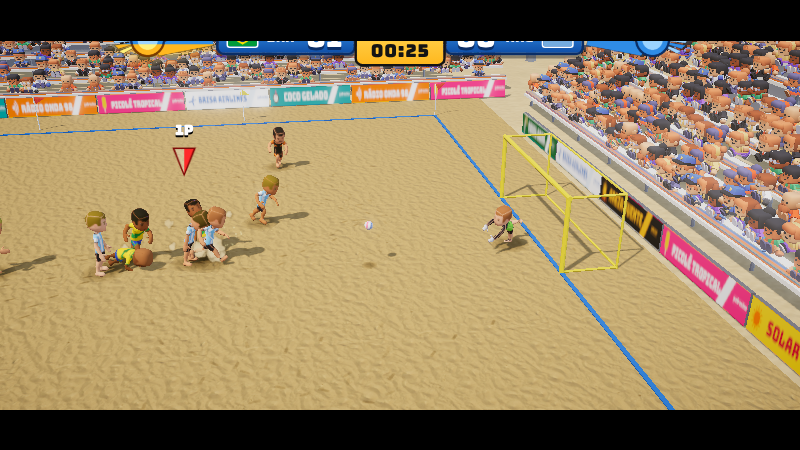
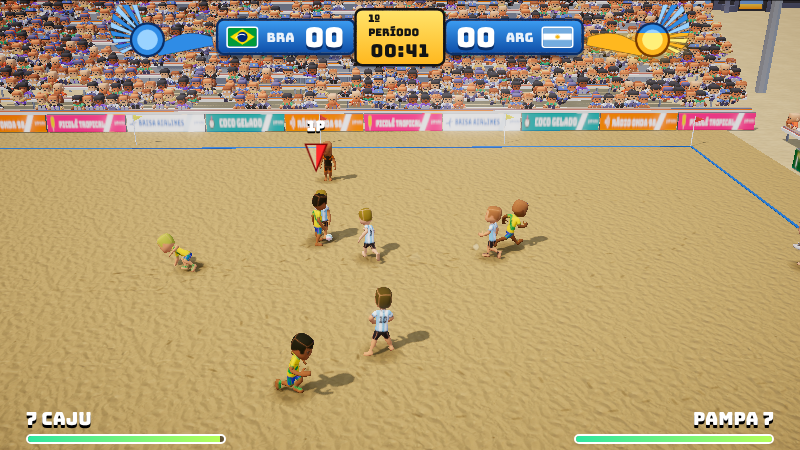
Toque: todo botão age em todo lance (ATAQUE/APOIO/DEFESA), área de toque tolerante, dicas
- APOIO (companheiro com a bola): PEDIR e PEDIR ALTO fazem a CPU passar para você
- DEFESA: MARCAR (segurar) corre sozinho até a bola/adversário; CARRINHO grande; TROCAR
- Botões que não agem no lance ficam apagados e mostram uma dica ao tocar; anel da barra do FOGO
- Toque entre dois botões aciona o mais próximo; cada dedo preso ao botão que tocou
- Teclado: J/L sem bola com companheiro na bola também pedem o passe
- Nova suíte de QA 'toques': cada botão em cada situação, toque rápido/segurado, multitoque

Claude-Session: https://claude.ai/code/session_01SZRMGLNJbngvwk127EqV8r

diff --git a/areia-quente/src/ui/Touch.ts b/areia-quente/src/ui/Touch.ts
@@ -7,6 +7,7 @@ import type { Flow } from './Flow';
  * Tudo vira "teclas virtuais" do dispositivo de teclado, então a lógica da partida não muda.
  */
 type Btn = { el: HTMLElement; action: string; ids: Set<number> };
+type Mode = 'atk' | 'sup' | 'def';
 
 const ACTIONS: [string, string, string][] = [
   // ação, rótulo, classe de posição
@@ -14,10 +15,16 @@ const ACTIONS: [string, string, string][] = [
   ['pass', 'PASSE', 'b-pass'],
   ['lob', 'LENÇOL', 'b-lob'],
   ['tackle', 'CARRINHO', 'b-tackle'],
+  ['press', 'MARCAR', 'b-press'],
   ['trick', 'FIRULA', 'b-trick'],
   ['sprint', 'CORRER', 'b-sprint'],
   ['fire', 'FOGO', 'b-fire'],
 ];
+/** dica mostrada quando o jogador toca num botão que não pode agir agora */
+const HINTS: Record<string, string> = {
+  shoot: 'Chegue na bola para chutar', pass: 'Sem a bola: toque perto dela', lob: 'Só com a bola', trick: 'Só com a bola nos pés',
+  fire: 'Faça jogadas de estilo para encher a barra do FOGO', tackle: 'Chegue perto do adversário', press: '', sprint: '',
+};
 
 export class TouchControls {
   root: HTMLElement;
@@ -26,12 +33,18 @@ export class TouchControls {
   private stickId: number | null = null;
   private origin = { x: 0, y: 0 };
   private btns: Btn[] = [];
+  private byPointer = new Map<number, Btn>();
   private skip: HTMLElement;
   private pauseBtn: HTMLElement;
+  private hint: HTMLElement;
+  private hintT = 0;
   private visible = false;
-  /** layout dos botões: ataque ou defesa */
-  private mode: 'atk' | 'def' = 'atk';
+  /** layout dos botões: ATAQUE (com a bola), APOIO (companheiro com a bola) ou DEFESA */
+  mode: Mode = 'atk';
   private pendingSince = 0;
+  private avail: Record<string, boolean> = {};
+  /** registro de toques (para o QA e para depurar em aparelho real com ?toques) */
+  log: string[] = [];
 
   constructor(private flow: Flow) {
     document.documentElement.classList.add('touch');
@@ -39,20 +52,22 @@ export class TouchControls {
     r.id = 'touch';
     r.innerHTML = `<div class="t-zone"></div><div class="t-stick"><div class="t-knob"></div></div>
       <div class="t-btns">${ACTIONS.map(([a, l, c]) => `<div class="t-btn ${c}" data-a="${a}"><span>${l}</span></div>`).join('')}</div>
+      <div class="t-hint"></div>
       <div class="t-top"><div class="t-skip">PULAR ▶▶</div><div class="t-pause">❚❚</div></div>`;
     document.getElementById('app')!.appendChild(r);
     this.stickBase = r.querySelector('.t-stick')!;
     this.stickKnob = r.querySelector('.t-knob')!;
     this.skip = r.querySelector('.t-skip')!;
     this.pauseBtn = r.querySelector('.t-pause')!;
+    this.hint = r.querySelector('.t-hint')!;
 
     // joystick: o toque em qualquer ponto da metade esquerda vira o centro do direcional
     const zone = r.querySelector('.t-zone') as HTMLElement;
     zone.addEventListener('pointerdown', (e) => {
-      if (this.stickId !== null) return;
       e.preventDefault();
+      if (this.stickId !== null) return;
       this.stickId = e.pointerId;
-      zone.setPointerCapture?.(e.pointerId);
+      try { zone.setPointerCapture(e.pointerId); } catch { /* iOS antigo */ }
       this.origin = { x: e.clientX, y: e.clientY };
       this.stickBase.style.left = `${e.clientX}px`;
       this.stickBase.style.top = `${e.clientY}px`;
@@ -63,28 +78,60 @@ export class TouchControls {
     const end = (e: PointerEvent) => { if (e.pointerId === this.stickId) this.releaseStick(); };
     zone.addEventListener('pointerup', end);
     zone.addEventListener('pointercancel', end);
-    zone.addEventListener('lostpointercapture', end);
 
-    // botões: cada um aceita vários dedos (segurar CHUTE = força; deslizar o dedo para fora solta)
-    r.querySelectorAll<HTMLElement>('.t-btn').forEach((el) => {
-      const b: Btn = { el, action: el.dataset.a!, ids: new Set() };
-      this.btns.push(b);
-      el.addEventListener('pointerdown', (e) => { e.preventDefault(); el.setPointerCapture?.(e.pointerId); b.ids.add(e.pointerId); this.setBtn(b); if (settings.data.vibrate !== false) navigator.vibrate?.(8); });
-      const up = (e: PointerEvent) => { if (b.ids.delete(e.pointerId)) this.setBtn(b); };
-      el.addEventListener('pointerup', up);
-      el.addEventListener('pointercancel', up);
-      el.addEventListener('lostpointercapture', up);
+    // botões: a área inteira do canto direito recebe o toque e escolhe o botão visível mais próximo
+    // (dedo grosso entre dois botões ainda acerta um deles). Cada dedo fica preso ao botão que tocou.
+    const pad = r.querySelector('.t-btns') as HTMLElement;
+    r.querySelectorAll<HTMLElement>('.t-btn').forEach((el) => this.btns.push({ el, action: el.dataset.a!, ids: new Set() }));
+    pad.addEventListener('pointerdown', (e) => {
+      e.preventDefault();
+      const b = this.pick(e.clientX, e.clientY);
+      if (!b) return;
+      try { pad.setPointerCapture(e.pointerId); } catch { /* iOS antigo */ }
+      this.byPointer.set(e.pointerId, b);
+      b.ids.add(e.pointerId);
+      this.setBtn(b);
+      this.log.push(`${b.action}:${this.avail[b.action] === false ? 'off' : 'on'}`);
+      if (this.log.length > 60) this.log.shift();
+      if (this.avail[b.action] === false && HINTS[b.action]) this.showHint(HINTS[b.action]);
+      if (settings.data.vibrate !== false) navigator.vibrate?.(8);
     });
+    const up = (e: PointerEvent) => {
+      const b = this.byPointer.get(e.pointerId);
+      if (!b) return;
+      this.byPointer.delete(e.pointerId);
+      b.ids.delete(e.pointerId);
+      this.setBtn(b);
+    };
+    pad.addEventListener('pointerup', up);
+    pad.addEventListener('pointercancel', up);
     this.skip.addEventListener('pointerdown', (e) => { e.preventDefault(); this.tap('Enter'); });
     this.pauseBtn.addEventListener('pointerdown', (e) => { e.preventDefault(); this.tap(settings.data.keys.pause); });
   }
 
-  private key(action: string) { return settings.data.keys[action]; }
+  /** botão visível mais próximo do toque (até 1,7× o raio dele) */
+  private pick(x: number, y: number): Btn | null {
+    let best: Btn | null = null, bd = Infinity;
+    for (const b of this.btns) {
+      if (getComputedStyle(b.el).pointerEvents === 'none') continue; // escondido neste modo
+      const r = b.el.getBoundingClientRect();
+      const rad = r.width / 2, d = Math.hypot(x - (r.left + rad), y - (r.top + r.height / 2));
+      const score = d / Math.max(rad, 1);
+      if (score < 1.7 && score < bd) { bd = score; best = b; }
+    }
+    return best;
+  }
+  private key(action: string) { return action === 'press' ? 'TouchPress' : settings.data.keys[action]; }
   private tap(code: string) { input.virtualKey(code, true); input.virtualKey(code, false); }
   private setBtn(b: Btn) {
     const on = b.ids.size > 0;
     b.el.classList.toggle('on', on);
     input.virtualKey(this.key(b.action), on);
+  }
+  private showHint(text: string) {
+    this.hint.textContent = text;
+    this.hint.classList.add('on');
+    this.hintT = performance.now();
   }
   private moveStick(x: number, y: number) {
     const R = Math.max(44, Math.min(innerWidth, innerHeight) * 0.14);
@@ -111,10 +158,15 @@ export class TouchControls {
   }
   private releaseAll() {
     if (this.stickId !== null) this.releaseStick();
+    this.byPointer.clear();
     for (const b of this.btns) if (b.ids.size) { b.ids.clear(); this.setBtn(b); }
   }
+  private label(a: string, t: string) {
+    const el = this.btns.find((b) => b.action === a)!.el.firstElementChild as HTMLElement;
+    if (el.textContent !== t) el.textContent = t;
+  }
 
-  /** Chamado a cada quadro: mostra os controles só durante a partida e adapta rótulos ao contexto. */
+  /** Chamado a cada quadro: mostra os controles só durante a partida e adapta rótulos/disponibilidade ao lance. */
   update() {
     const f = this.flow, m = f.match;
     const show = f.scene === 'match' && !!m && !m.paused;
@@ -123,6 +175,7 @@ export class TouchControls {
       this.root.classList.toggle('on', show);
       if (!show) this.releaseAll();
     }
+    if (this.hintT && performance.now() - this.hintT > 1400) { this.hint.classList.remove('on'); this.hintT = 0; }
     if (!show || !m) return;
     const sz = String([0.82, 1, 1.2][settings.data.touchSize ?? 1]);
     if (this.root.style.getPropertyValue('--ts') !== sz) this.root.style.setProperty('--ts', sz);
@@ -134,42 +187,62 @@ export class TouchControls {
     this.root.classList.toggle('cine', ['intro', 'replay', 'halftime', 'fulltime', 'done', 'goal'].includes(st));
     const tm = m.teams.find((t) => t.players.some((p) => p.device === 'kb'));
     const me = tm?.players.find((p) => p.device === 'kb');
-    const owner = m.ball.owner;
+    const b = m.ball, owner = b.owner;
     const hasBall = !!me && owner === me;
-    const attacking = !!tm && owner?.team === tm;
+    const taker = !!me && (st === 'kickoff' || st === 'setpiece') && m.sp?.taker === me;
     // saque/cobrança esperando o jogador: os botões de passe e chute piscam
-    this.root.classList.toggle('wait', !!me && (st === 'kickoff' || st === 'setpiece') && (hasBall || m.sp?.taker === me));
+    this.root.classList.toggle('wait', taker);
     if (st !== 'play' && st !== 'kickoff' && st !== 'setpiece') return;
-    const label = (a: string, t: string) => { const el = this.btns.find((b) => b.action === a)!.el.firstElementChild as HTMLElement; if (el.textContent !== t) el.textContent = t; };
-    // ATAQUE: meu time com a bola (ou bola solta depois de um toque nosso, ex.: passe em voo, ou nossa cobrança)
-    // DEFESA: adversário com a bola, bola solta tocada por ele, ou cobrança dele
-    const lt = m.ball.lastTouch;
-    const atkNow = !tm ? true
-      : st !== 'play' ? (m.sp?.team ?? m.kickoffTeam) === tm
-      : owner ? owner.team === tm : lt ? lt.team === tm : true;
-    const want = atkNow ? 'atk' : 'def';
+
+    // modo do layout
+    const set = st !== 'play';
+    const want: Mode = !tm || hasBall || taker ? 'atk'
+      : set ? ((m.sp?.team ?? m.kickoffTeam) === tm ? 'sup' : 'def')
+      : owner && owner.team === tm ? 'sup' : 'def';
     const now = performance.now();
-    const holding = this.btns.some((b) => b.ids.size > 0);
+    const holding = this.btns.some((x) => x.ids.size > 0);
     if (want !== this.mode) {
       this.pendingSince ||= now;
-      // espera a posse "firmar" (evita piscar em dividida) e não troca botão debaixo do dedo
-      if (now - this.pendingSince > (holding ? 600 : 180)) { this.mode = want; this.pendingSince = 0; this.root.classList.remove('atk', 'def'); void this.root.offsetWidth; this.root.classList.add(want, 'swap'); setTimeout(() => this.root.classList.remove('swap'), 260); }
+      // espera a posse "firmar" (evita piscar em dividida) e não troca botão debaixo do dedo por muito tempo
+      if (now - this.pendingSince > (holding ? 600 : 150)) {
+        this.mode = want; this.pendingSince = 0;
+        this.root.classList.remove('atk', 'sup', 'def'); void this.root.offsetWidth;
+        this.root.classList.add(want, 'swap'); setTimeout(() => this.root.classList.remove('swap'), 260);
+      }
     } else this.pendingSince = 0;
     if (!this.root.classList.contains(this.mode)) this.root.classList.add(this.mode);
-    const gkHold = hasBall && m.ball.held;
+    const training = m.opts.mode === 'training';
+    this.root.classList.toggle('training', training);
+
+    // o que cada botão faz agora (rótulo) e se pode agir (aceso/apagado)
+    const near = !!me && (m.nearLooseBall(me) || m.aerialChance(me));
+    const gkHold = hasBall && b.held;
+    const mateCpu = !!owner && owner.team === tm && owner !== me && !owner.device;
+    const heat = tm ? Math.min(1, tm.heat) : 0;
+    this.root.style.setProperty('--heat', heat.toFixed(2));
+    const av = this.avail;
     if (this.mode === 'atk') {
-      label('pass', 'PASSE');
-      label('shoot', gkHold ? 'LANÇAR' : 'CHUTE');
-      label('lob', 'LENÇOL');
-      label('trick', 'FIRULA');
+      this.label('shoot', gkHold ? 'LANÇAR' : 'CHUTE');
+      this.label('pass', 'PASSE');
+      this.label('lob', 'LENÇOL');
+      this.label('trick', 'FIRULA');
+      av.shoot = hasBall || taker || near; av.pass = hasBall || taker || near; av.lob = av.pass && !gkHold; av.trick = hasBall && !gkHold;
+    } else if (this.mode === 'sup') {
+      this.label('shoot', 'CHUTE');
+      this.label('pass', 'PEDIR');
+      this.label('lob', 'PEDIR ALTO');
+      av.shoot = near; av.pass = mateCpu && !set; av.lob = mateCpu && !set; av.trick = false;
     } else {
-      label('pass', 'TROCAR');
-      label('shoot', 'CHUTE');
-      label('lob', 'CRUZAR');
-      label('tackle', 'CARRINHO');
+      this.label('shoot', 'CHUTE');
+      this.label('pass', 'TROCAR');
+      this.label('lob', 'CRUZAR');
+      av.shoot = near; av.pass = true; av.trick = false; av.lob = training;
     }
-    this.root.classList.toggle('training', m.opts.mode === 'training');
-    this.root.classList.toggle('hasball', hasBall);
+    av.tackle = !hasBall && !set;
+    av.press = !hasBall && !set;
+    av.sprint = true;
+    av.fire = !!tm && tm.heat >= 1 && tm.fire <= 0;
+    for (const x of this.btns) x.el.classList.toggle('off', av[x.action] === false);
   }
 }
 

diff --git a/areia-quente/src/style.css b/areia-quente/src/style.css
@@ -330,20 +330,37 @@ html.touch .btn, html.touch .opt, html.touch .k, html.touch .arrow, html.touch .
 #touch .b-sprint { right: 73%; bottom: 3%;  width: 24%; height: 24%; background: radial-gradient(circle at 35% 30%, #fff7d6, var(--gold) 60%); font-size: clamp(8px, 1.9vh, 12px); }
 #touch .b-fire   { right: 34%; bottom: 62%; width: 22%; height: 22%; background: radial-gradient(circle at 35% 30%, #ffe3a0, #ff3e00 60%); font-size: clamp(8px, 1.9vh, 12px); }
 /* com a bola: CARRINHO some; sem a bola: FIRULA some */
-/* ATAQUE x DEFESA: os botões mudam de lugar, tamanho e função */
-#touch .t-btn { transition: right 0.22s, bottom 0.22s, width 0.22s, height 0.22s, opacity 0.18s, transform 0.06s; }
-#touch.atk .b-tackle { opacity: 0; pointer-events: none; transform: scale(0.4); }
-#touch.def .b-trick, #touch.def:not(.training) .b-lob { opacity: 0; pointer-events: none; transform: scale(0.4); }
+/* ATAQUE / APOIO / DEFESA: os botões mudam de lugar, tamanho e função */
+#touch .t-btns { pointer-events: auto; touch-action: none; }
+#touch .t-btn { transition: right 0.22s, bottom 0.22s, width 0.22s, height 0.22s, opacity 0.18s, filter 0.18s, transform 0.06s; }
+#touch .b-press { right: 37%; bottom: 31%; width: 27%; height: 27%; background: radial-gradient(circle at 35% 30%, #fff1d6, #ff8a1f 60%); }
+/* escondidos por modo (pointer-events: none = o toque vai para o botão vizinho) */
+#touch .b-press, #touch.atk .b-tackle, #touch.sup .b-tackle, #touch.sup .b-trick, #touch.sup .b-press,
+#touch.def .b-trick, #touch.def:not(.training) .b-lob { opacity: 0 !important; pointer-events: none; transform: scale(0.4); }
+#touch.def .b-press { opacity: 0.86 !important; pointer-events: auto; transform: none; }
+#touch.def.training .b-lob { right: 64%; bottom: 46%; width: 22%; height: 22%; }
+/* apoio: PEDIR / PEDIR ALTO */
+#touch.sup .b-pass, #touch.sup .b-lob { background: radial-gradient(circle at 35% 30%, #fffbe0, #ffd21f 60%); }
+#touch.sup .b-lob span, #touch.sup .b-pass span { font-size: clamp(8px, 1.9vh, 12px); }
 /* defesa: CARRINHO vira o botão grande do canto; CHUTE (bola alta/solta) sobe; PASSE vira TROCAR */
 #touch.def .b-tackle { right: 0; bottom: 0; width: 40%; height: 40%; background: radial-gradient(circle at 35% 30%, #ffe0e0, #e3182d 60%); font-size: clamp(10px, 2.7vh, 17px); color: #fff; }
-#touch.def .b-tackle span { text-shadow: 0 2px 0 rgba(0,0,0,0.6); }
+#touch.def .b-tackle span, #touch.def .b-pass span { text-shadow: 0 2px 0 rgba(0,0,0,0.6); }
 #touch.def .b-shoot { right: 4%; bottom: 42%; width: 28%; height: 28%; font-size: clamp(9px, 2.2vh, 14px); }
 #touch.def .b-pass { background: radial-gradient(circle at 35% 30%, #e6f5ff, #1d74c9 60%); color: #fff; }
-#touch.def .b-pass span { text-shadow: 0 2px 0 rgba(0,0,0,0.6); }
-#touch.def.training .b-lob { right: 64%; bottom: 46%; width: 22%; height: 22%; }
+/* apagado = não age neste lance (ainda dá para tocar: aparece uma dica) */
+#touch .t-btn.off { filter: grayscale(0.85) brightness(0.8); opacity: 0.5; }
+/* barra do FOGO enchendo em volta do botão */
+#touch .b-fire::after { content: ''; position: absolute; inset: -6px; border-radius: 50%; pointer-events: none;
+  background: conic-gradient(#ffd21f calc(var(--heat, 0) * 360deg), rgba(255,255,255,0.15) 0); -webkit-mask: radial-gradient(circle, transparent 62%, #000 63%); mask: radial-gradient(circle, transparent 62%, #000 63%); }
+#touch .b-fire:not(.off) { animation: aq-pulse 0.9s ease-in-out infinite; }
+/* dica */
+#touch .t-hint { position: absolute; right: calc(env(safe-area-inset-right) + 12px); bottom: calc(46vh * var(--ts, 1) + 40px); max-width: 46vw; padding: 6px 12px; border-radius: 10px;
+  background: rgba(9,22,48,0.88); border: 2px solid var(--gold); color: #fff; font-weight: 800; font-size: 13px; opacity: 0; transform: translateY(6px); transition: opacity 0.15s, transform 0.15s; pointer-events: none; }
+#touch .t-hint.on { opacity: 1; transform: none; }
 /* selo do modo acima dos botões */
 #touch .t-btns::before { position: absolute; right: 0; top: -22px; font-family: var(--title); font-size: 12px; padding: 2px 10px; border-radius: 8px; border: 2px solid var(--ink); color: #fff; text-shadow: 0 1px 0 #000; }
 #touch.atk .t-btns::before { content: 'ATAQUE'; background: #0fc48f; }
+#touch.sup .t-btns::before { content: 'APOIO'; background: #c98a00; }
 #touch.def .t-btns::before { content: 'DEFESA'; background: #e3182d; }
 #touch.swap .t-btns { animation: aq-swap 0.26s ease-out; }
 @keyframes aq-swap { 0% { transform: scale(0.92); } 100% { transform: scale(1); } }

diff --git a/areia-quente/src/match/Match.ts b/areia-quente/src/match/Match.ts
@@ -273,6 +273,7 @@ export class Match {
     const s = input.state(dev);
     const mv = new THREE.Vector3(s.mx, 0, s.my);
     const tm = p.team;
+    this.requestT = Math.max(0, this.requestT - dt);
     const sp = this.sp;
     const inSet = this.state === 'setpiece' || this.state === 'kickoff';
     if (input.pressed(dev, 'fire')) this.activateFire(tm);
@@ -288,7 +289,9 @@ export class Match {
     }
     if (inSet) { p.vel.set(0, 0, 0); return; }
     const canMove = p.stun <= 0 && p.sliding <= 0 && !(p.kick && !p.kick.done) && !this.ball.held;
-    const sprint = input.held(dev, 'sprint');
+    let sprint = input.held(dev, 'sprint');
+    // MARCAR (toque): corre sozinho atrás da bola/adversário enquanto o botão estiver pressionado
+    if (input.isDown('TouchPress') && dev === 'kb' && !hasBall && mv.lengthSq() < 0.04) { mv.copy(this.pressDir(p)); sprint = true; }
     if (canMove) {
       const max = p.maxSpeed(sprint);
       const want = mv.clone().multiplyScalar(max);
@@ -310,9 +313,11 @@ export class Match {
     if (input.pressed(dev, 'pass')) {
       if (hasBall) this.doPass(p, mv.lengthSq() > 0.01 ? mv : null, false);
       else if (this.ball.owner?.team !== tm || !this.ball.owner) this.switchToNearest(tm, dev);
+      else this.requestPass(p, false); // companheiro com a bola: pede o passe
     }
     if (input.pressed(dev, 'lob') && hasBall) this.doPass(p, mv.lengthSq() > 0.01 ? mv : null, true);
     else if (input.pressed(dev, 'lob') && this.opts.mode === 'training') this.trainerCross();
+    else if (input.pressed(dev, 'lob') && this.ball.owner && this.ball.owner.team === tm) this.requestPass(p, true);
     if (input.pressed(dev, 'trick')) this.doTrick(p);
     if (input.pressed(dev, 'tackle') && !hasBall) this.doTackle(p, sprint);
     // chute: segurar = força; bola no alto = finalização acrobática imediata
@@ -333,7 +338,25 @@ export class Match {
   }
 
   // ------------------------------------------------------------------ ações
-  doPass(p: Player, dir: THREE.Vector3 | null, lob: boolean) {
+  /** Pedir a bola (botão PEDIR / J sem bola): o companheiro da CPU que está com ela passa para o jogador. */
+  requestT = 0;
+  requestPass(p: Player, lob: boolean) {
+    const o = this.ball.owner;
+    if (!o || o === p || o.team !== p.team || o.device || o.isGK && this.ball.held || (o.kick && !o.kick.done) || this.requestT > 0) return false;
+    this.requestT = 0.8;
+    this.doPass(o, null, lob, p);
+    this.hud.worldPop(lob ? 'NO ALTO!' : 'TOCA!', p.pos.clone().setY(2.3), this.world.camera, '#ffffff');
+    return true;
+  }
+  /** Marcação assistida (botão MARCAR): direção até quem está com a bola, ou até onde a bola vai estar. */
+  pressDir(p: Player) {
+    const b = this.ball;
+    const tgt = b.owner && b.owner.team !== p.team ? b.owner.pos.clone().add(b.owner.vel.clone().multiplyScalar(0.25)) : b.predict(0.3);
+    const d = tgt.sub(p.pos).setY(0);
+    return d.lengthSq() > 0.04 ? d.normalize() : new THREE.Vector3();
+  }
+
+  doPass(p: Player, dir: THREE.Vector3 | null, lob: boolean, target?: Player) {
     const b = this.ball;
     const hasIt = b.owner === p || this.sp?.taker === p || this.nearLooseBall(p);
     if (!hasIt || (p.kick && !p.kick.done)) return;
@@ -341,7 +364,7 @@ export class Match {
     if (p.isGK || this.sp?.kind === 'goal_kick') mates.push(...[]);
     let best: Player | null = null, bestS = -1e9;
     const fwd = dir && dir.lengthSq() > 0.01 ? dir.clone().normalize() : p.forward;
-    for (const m of mates) {
+    for (const m of target ? [target] : mates) {
       const to = m.pos.clone().sub(p.pos); const d = to.length(); to.normalize();
       const ang = to.dot(fwd);
       const opp = Math.min(...p.team.opp.field.map((o) => distToSeg(o.pos, p.pos, m.pos)));

diff --git a/areia-quente/src/core/Input.ts b/areia-quente/src/core/Input.ts
@@ -46,6 +46,8 @@ class InputSys {
   virtualKey(code: string, isDown: boolean) {
     if (isDown) { this.down.add(code); this.tapped.add(code); } else this.down.delete(code);
   }
+  /** tecla (física ou virtual) pressionada agora */
+  isDown(code: string) { return this.down.has(code) || this.tapped.has(code); }
   /** Joystick virtual: vetor (-1..1) ou null ao soltar. */
   setStick(v: { x: number; y: number } | null) { this.stick = v; }
 
